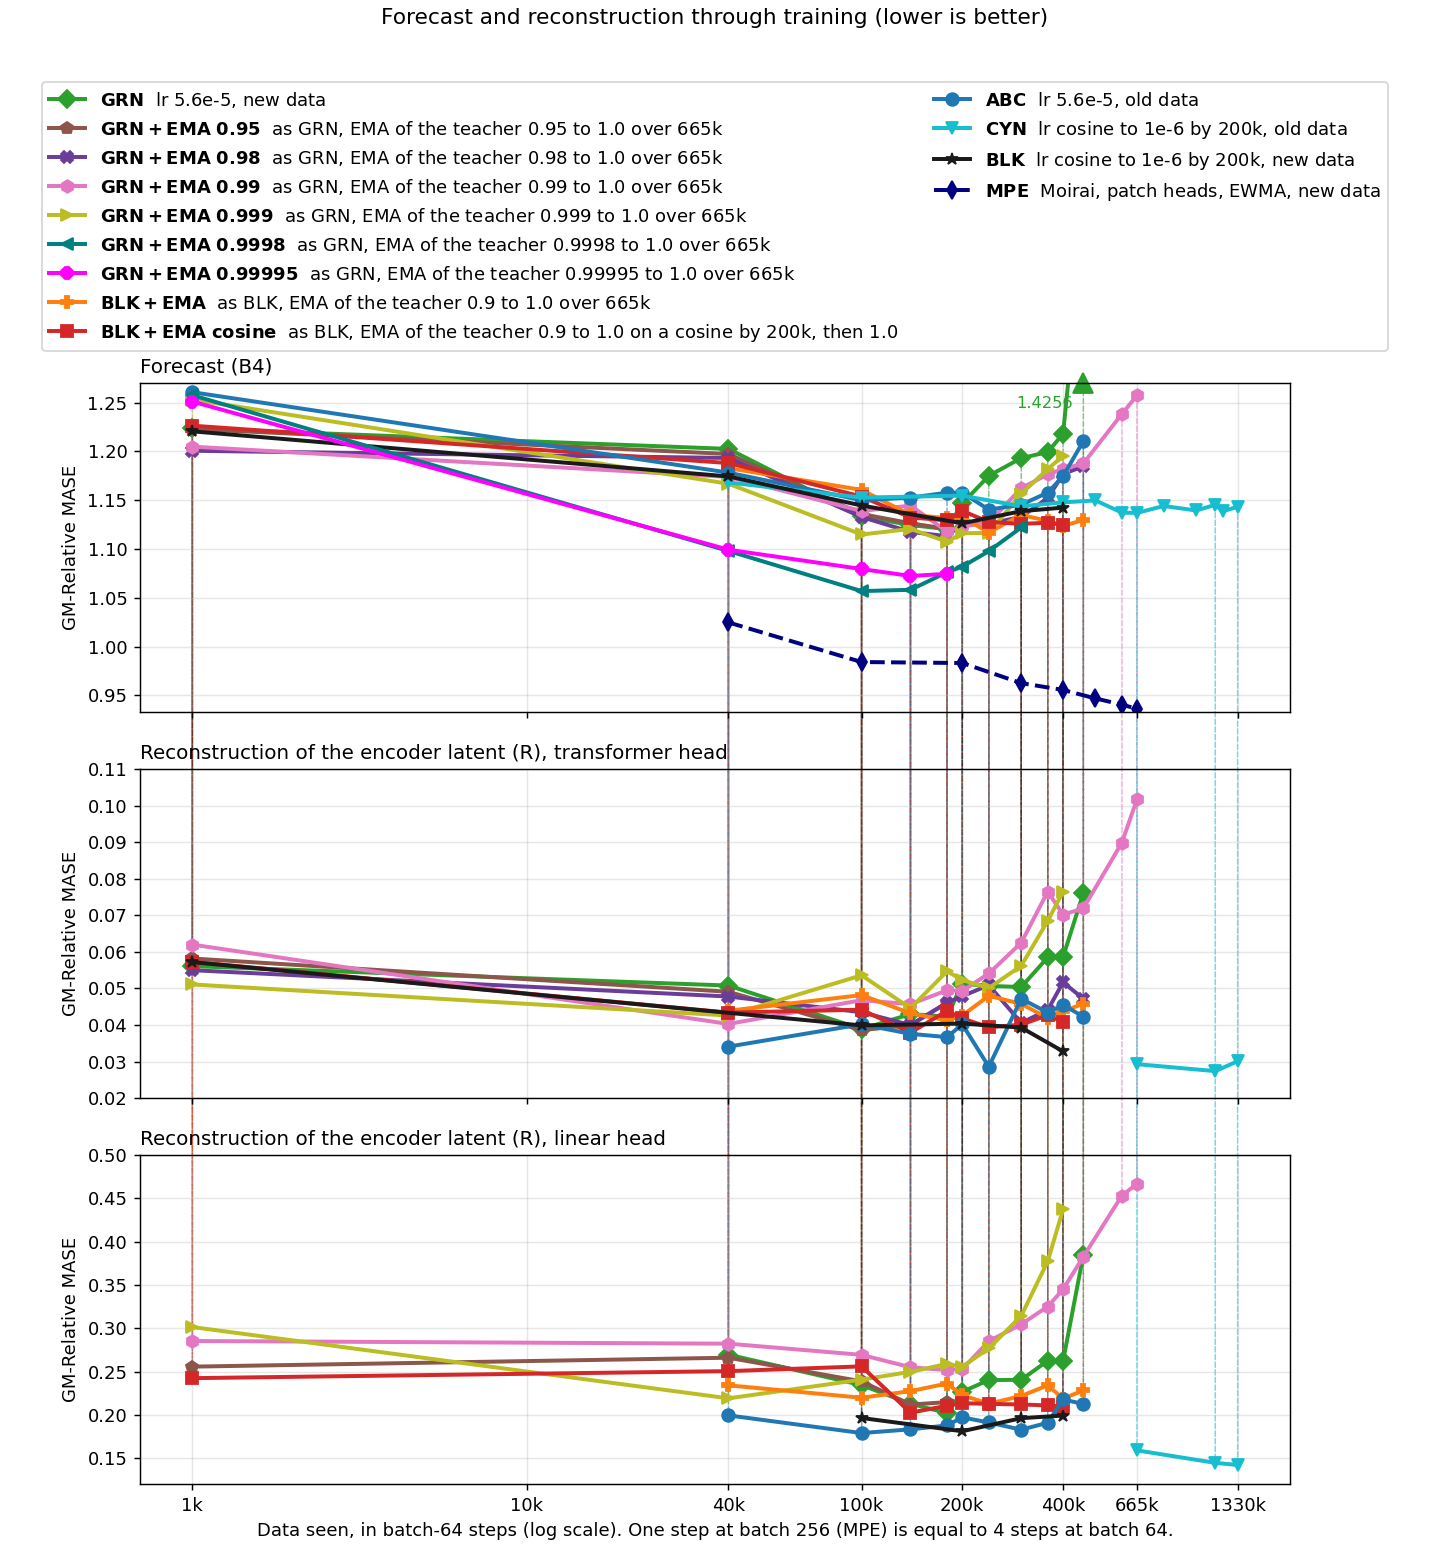
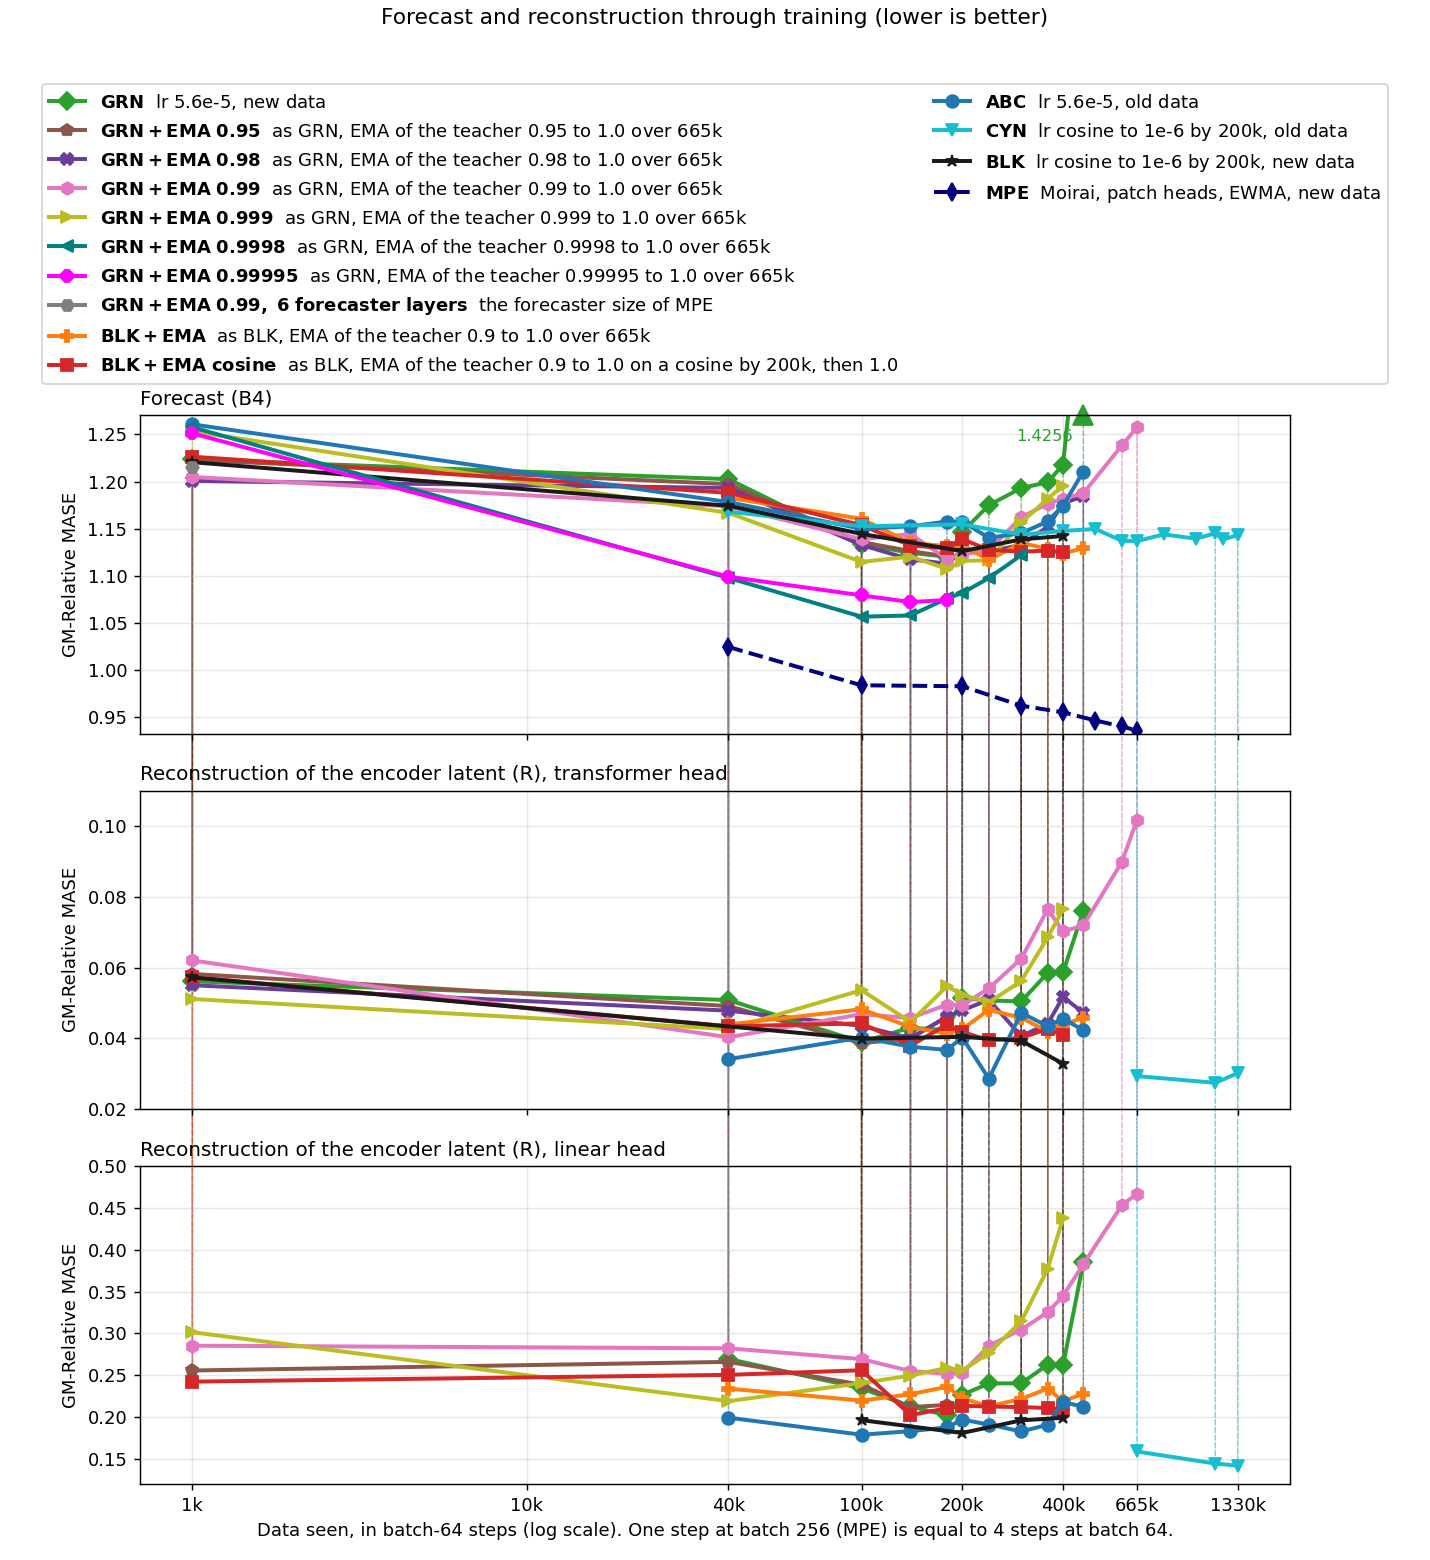
Frequency-family report: forecast of grn_ema099_f6 at 1k
The first forecast score of grn_ema099_f6 (the pink recipe with a forecaster
of 6 layers): 1.2151 at 1k. A shorter legend label for the run, so that the
legend fits the figure.

Changed region(s): [[0.0308, 0.0308, 0.8923, 0.9231], [0.6462, 0.0308, 0.9538, 0.1231]]

diff --git a/reports/2026-10-10_frequency_family_head/scripts/plot_green_scores.py b/reports/2026-10-10_frequency_family_head/scripts/plot_green_scores.py
@@ -94,8 +94,8 @@ RUNS = [
      GRN_EMA09998_COLOUR, "<"),
     (GRN_EMA099995, r"$\mathbf{GRN+EMA\ 0.99995}$  as GRN, EMA of the teacher 0.99995 to 1.0 "
      "over 665k", GRN_EMA099995_COLOUR, "8"),
-    (GRN_EMA099_F6, r"$\mathbf{GRN+EMA\ 0.99,\ 6\ forecaster\ layers}$  as GRN+EMA 0.99, "
-     "a forecaster of 6 layers (the size of our Moirai copy)", GRN_EMA099_F6_COLOUR, "H"),
+    (GRN_EMA099_F6, r"$\mathbf{GRN+EMA\ 0.99,\ 6\ forecaster\ layers}$  the forecaster size of MPE",
+     GRN_EMA099_F6_COLOUR, "H"),
     (BLK_EMA, r"$\mathbf{BLK+EMA}$  as BLK, EMA of the teacher 0.9 to 1.0 over 665k",
      BLK_EMA_COLOUR, "P"),
     (BLK_EMACOS, r"$\mathbf{BLK+EMA\ cosine}$  as BLK, EMA of the teacher 0.9 to 1.0 on a cosine "
